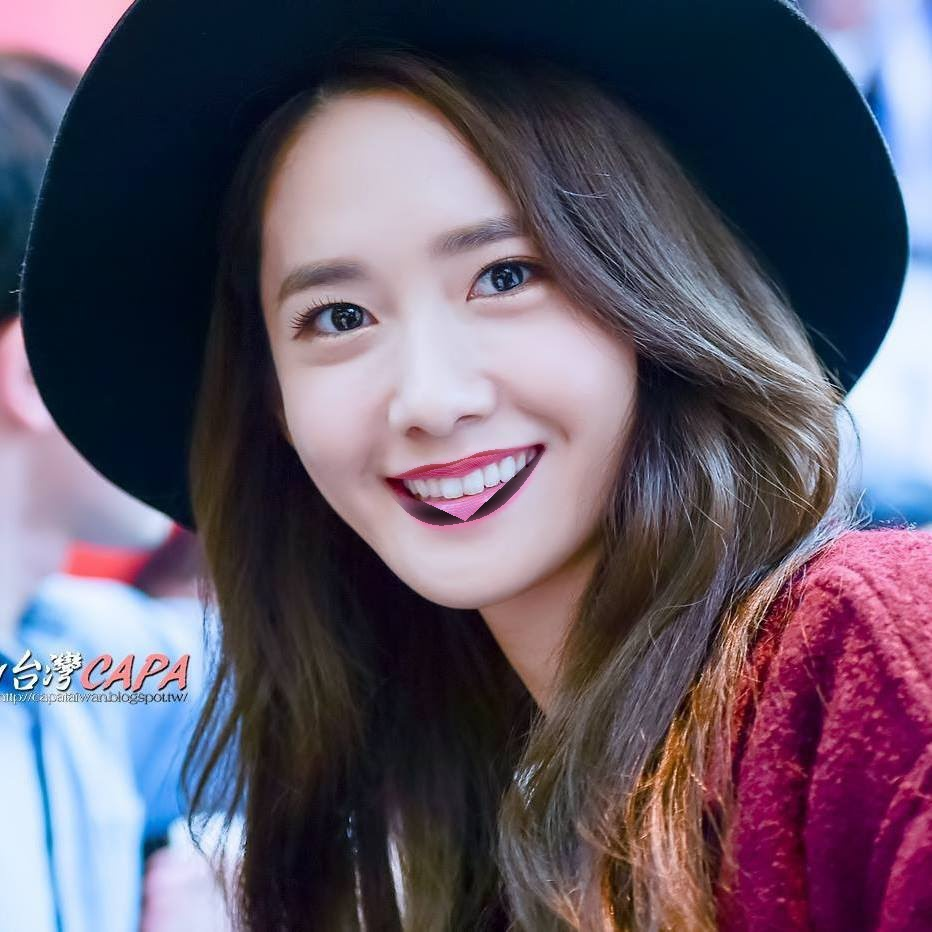
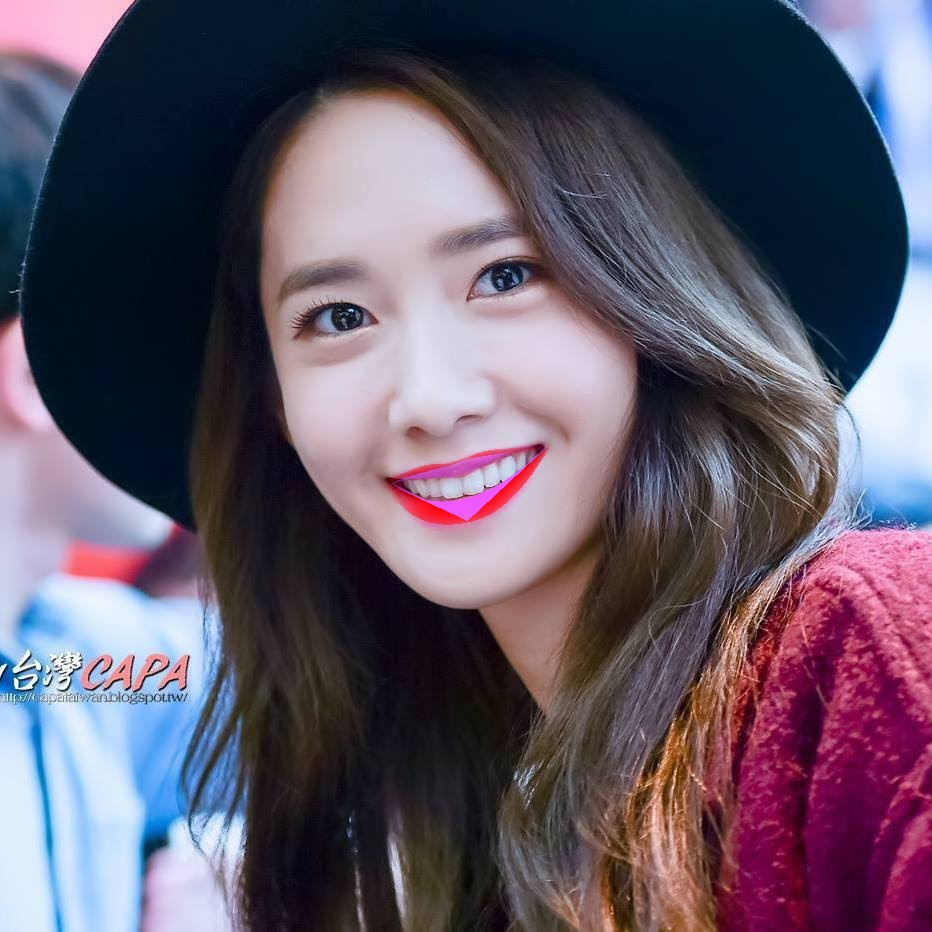
<Make up lips> Finish with triangle in buttom

Changed region(s): [[0.4045, 0.4667, 0.5912, 0.5912]]

diff --git a/env/lib/python3.6/site-packages/visage/apply_makeup.py b/env/lib/python3.6/site-packages/visage/apply_makeup.py
@@ -13,6 +13,8 @@ from skimage import color
 from  visage.detect_features import DetectLandmarks
 import os
 from shapely.geometry import Polygon
+from matplotlib import pyplot as plt
+from shapely.geometry.polygon import LinearRing, Polygon
 
 class ApplyMakeup(DetectLandmarks):
     """
@@ -145,6 +147,7 @@ class ApplyMakeup(DetectLandmarks):
         gradient_inner = self.linear_gradient(min_outer_color,max_outer_color,len_inner)
         i = 0
         points = []
+        points_np_out = []
         for point in outer_curve:
             if point[0] <= np.median(outer[0]):
                 points.append(np.array(point, dtype=np.int32))
@@ -164,34 +167,60 @@ class ApplyMakeup(DetectLandmarks):
                 cv2.fillPoly(self.image, [points_np], (color_red[i],color_green[i],color_blue[i]))
             i += 1
 
-        # i = 0
-        # for point in inner_curve:
-        #     if point[0] <= np.median(inner[0]):
-        #         points.append(np.array(point, dtype=np.int32))
-        #         color_red = gradient_inner["r"]
-        #         color_green = gradient_inner["g"]
-        #         color_blue = gradient_inner["b"]
-        #         points_np = np.array(points, dtype=np.int32)
-        #         cv2.fillPoly(self.image, [points_np], (color_red[i],color_green[i],color_blue[i]))
-        #     else:
-        #         if i == (len_inner/2)+1:
-        #             points = [points[-1]]
-        #         points.append(np.array(point, dtype=np.int32))
-        #         color_red = gradient_inner["r"]
-        #         color_green = gradient_inner["g"]
-        #         color_blue = gradient_inner["b"]
-        #         points_np = np.array(points, dtype=np.int32)
-        #         if i == len_inner-1:
-        #             cv2.fillPoly(self.image, [points_np], (color_red[i],color_green[i],color_blue[i]))
-        #     i += 1
+        i = 0
+        for point in inner_curve:
+            if point[0] <= np.median(inner[0]):
+                points.append(np.array(point, dtype=np.int32))
+                color_red = gradient_inner["r"]
+                color_green = gradient_inner["g"]
+                color_blue = gradient_inner["b"]
+                points_np = np.array(points, dtype=np.int32)
+                cv2.fillPoly(self.image, [points_np], (color_red[i],color_green[i],color_blue[i]))
+            else:
+                if i == (len_inner/2)+1:
+                    points = [points[-1]]
+                points.append(np.array(point, dtype=np.int32))
+                color_red = gradient_inner["r"]
+                color_green = gradient_inner["g"]
+                color_blue = gradient_inner["b"]
+                points_np = np.array(points, dtype=np.int32)
+                cv2.fillPoly(self.image, [points_np], (color_red[i],color_green[i],color_blue[i]))
+            i += 1
+        self.__fill_lip_solid_outer(outer, inner,min_inner_color,max_inner_color,min_outer_color,max_outer_color)
 
-        # points = np.array(points, dtype=np.int32)
-        # print(points)
-        # self.red_l = int(self.red_l)
-        # self.green_l = int(self.green_l)
-        # self.blue_l = int(self.blue_l)
-        # cv2.fillPoly(self.image, [points], (self.red_l, self.green_l, self.blue_l))
-
+    def __fill_lip_solid_outer(self, outer, inner,min_inner_color,max_inner_color,min_outer_color,max_outer_color):
+        """ Fills solid colour inside two outlines. """
+        inner[0].reverse()
+        inner[1].reverse()
+        outer_curve = zip(outer[0], outer[1])
+        inner_curve = zip(inner[0], inner[1])
+        outer_count = zip(outer[0], outer[1])
+        inner_count = zip(inner[0], inner[1])
+        len_outer = sum(1 for _ in outer_count)
+        len_inner = sum(1 for _ in inner_count)
+        gradient_outer = self.linear_gradient(min_inner_color,max_inner_color,len_outer)
+        gradient_inner = self.linear_gradient(min_outer_color,max_outer_color,len_inner)
+        i = 0
+        points = []
+        points_np_out = []
+        for point in outer_curve:
+            if point[0] <= np.median(outer[0]):
+                points.append(np.array(point, dtype=np.int32))
+                color_red = gradient_outer["r"]
+                color_green = gradient_outer["g"]
+                color_blue = gradient_outer["b"]
+                points_np = np.array(points, dtype=np.int32)
+                cv2.fillPoly(self.image, [points_np], (color_red[i],color_green[i],color_blue[i]))
+            else:
+                if i == (len_outer/2)+1:
+                    points = [points[-1]]
+                points.append(np.array(point, dtype=np.int32))
+                color_red = gradient_outer["r"]
+                color_green = gradient_outer["g"]
+                color_blue = gradient_outer["b"]
+                points_np = np.array(points, dtype=np.int32)
+                cv2.fillPoly(self.image, [points_np], (color_red[i],color_green[i],color_blue[i]))
+            i += 1
 
     def __smoothen_color(self, outer, inner):
         """ Smoothens and blends colour applied between a set of outlines. """
@@ -398,9 +427,9 @@ class ApplyMakeup(DetectLandmarks):
         uol, uil, lol, lil = self.__get_points_lips(lips_points)
         uol_c, uil_c, lol_c, lil_c = self.__get_curves_lips(uol, uil, lol, lil)
         if position == "upper":
-            self.__fill_color_upper(uol_c, uil_c, lol_c, lil_c,"#800000","#800000","#8A2BE2","#8A2BE2")
+            self.__fill_color_upper(uol_c, uil_c, lol_c, lil_c,"#FF0009","#FF0009","#FF0009","#EF58FF")
         elif position == "bottom":
-            self.__fill_color_bottom(uol_c, uil_c, lol_c, lil_c,"#000000","#000000","#191970","#191970")
+            self.__fill_color_bottom(uol_c, uil_c, lol_c, lil_c,"#FF0009","#FF0009","#FF0009","#EF58FF")
         else:
             self.__fill_color(uol_c, uil_c, lol_c, lil_c)
 

diff --git a/makeup_face.py b/makeup_face.py
@@ -1,5 +1,7 @@
 from visage import ApplyMakeup
 from visage import DetectLandmarks
 AM = ApplyMakeup()
+output_file = AM.apply_lipstick('/Users/forzfilm/Desktop/Flexmedia/sticker/kissitbetter.jpg',170,10,30,"upper") # (R,G,B) - (170,10,30)
+output_file = AM.apply_lipstick('/Users/forzfilm/Desktop/Flexmedia/sticker/output_lips_kissitbetter.jpg',119, 68, 140,"bottom") # (R,G,B) - (170,10,30)
 output_file = AM.apply_lipstick('/Users/forzfilm/Desktop/Flexmedia/sticker/maxresdefault.jpg',170,10,30,"upper") # (R,G,B) - (170,10,30)
-# output_file = AM.apply_lipstick('/Users/forzfilm/Desktop/Flexmedia/sticker/output_lips_maxresdefault.jpg',119, 68, 140,"bottom") # (R,G,B) - (170,10,30)
+output_file = AM.apply_lipstick('/Users/forzfilm/Desktop/Flexmedia/sticker/output_lips_maxresdefault.jpg',119, 68, 140,"bottom") # (R,G,B) - (170,10,30)

diff --git a/plot.py b/plot.py
@@ -16,6 +16,7 @@ fig = plt.figure(1, figsize=(5,5), dpi=90)
 ax = fig.add_subplot(111)
 ax.plot(x, y)
 ax.set_title('Polygon Edges')
+plt.show()
 
 xrange = [-1, 3]
 yrange = [-1, 3]
